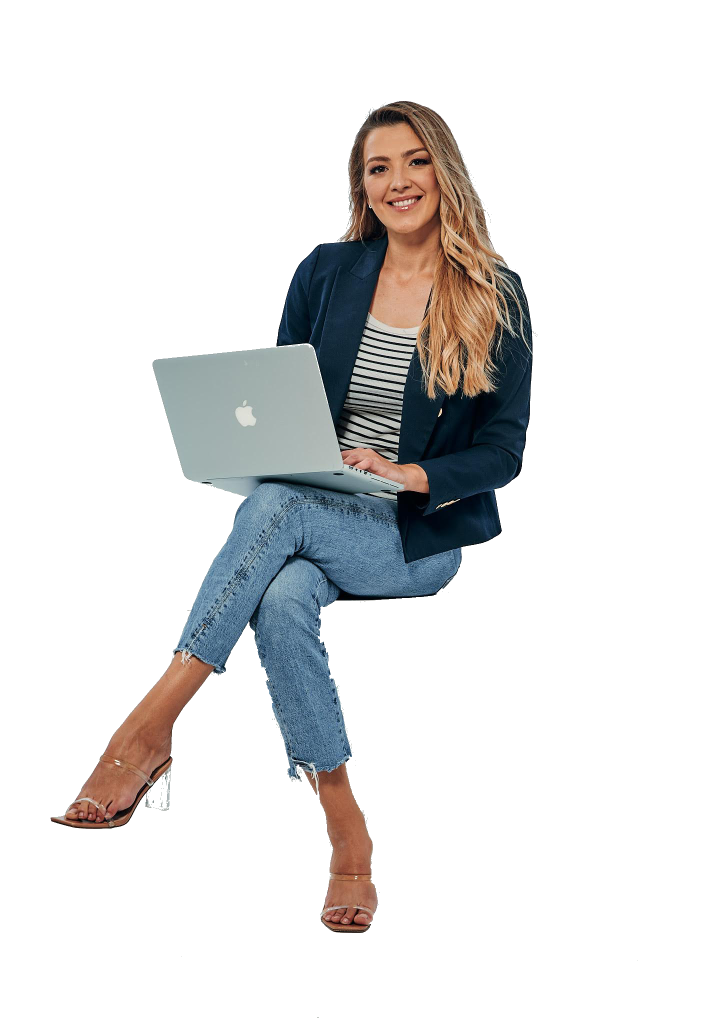
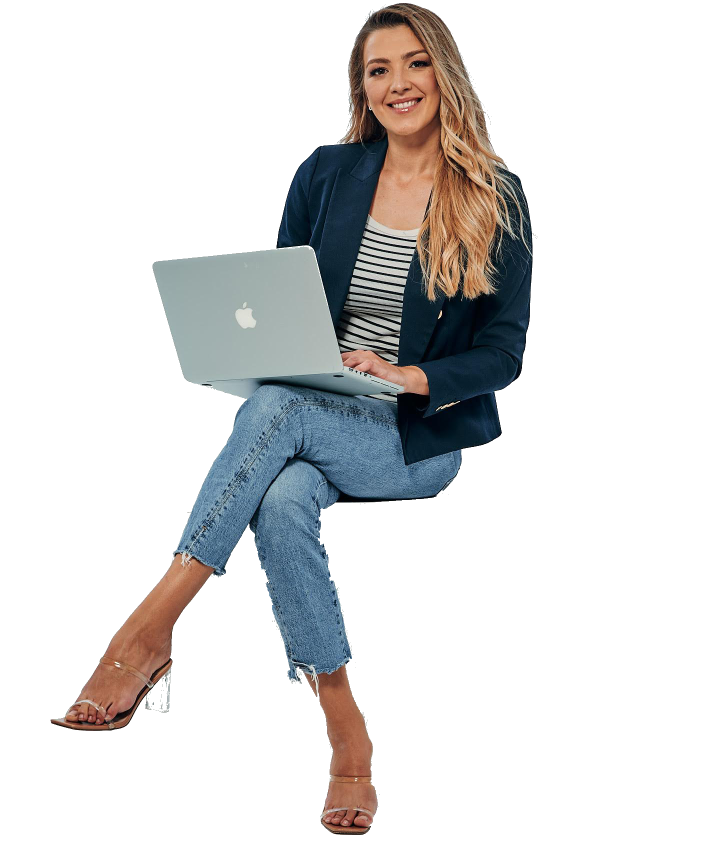
Tweak spaces

Changed region(s): [[0.0619, 0.0, 0.7736, 1.0]]

diff --git a/index.html b/index.html
@@ -442,7 +442,7 @@
 
     <div class="container-fluid whiteContainer">
       <div class="row">
-        <div class="col d-block d-sm-none" style="text-align: center; margin-top: -50px;">
+        <div class="col d-block d-sm-none" style="text-align: center;">
           <img style="width: 100%" src="img/liza1.png" />
         </div>
       </div>
@@ -455,7 +455,7 @@
         </div>
       </div>
     </div>
-    <div class="container-fluid whiteContainer" style="margin-top: -100px;">
+    <div class="container-fluid whiteContainer" ">
       <div class="row">
         <div class="col" style="text-align: center">
           <h2>Presiona en cada botón y repite en voz alta:</h2>
